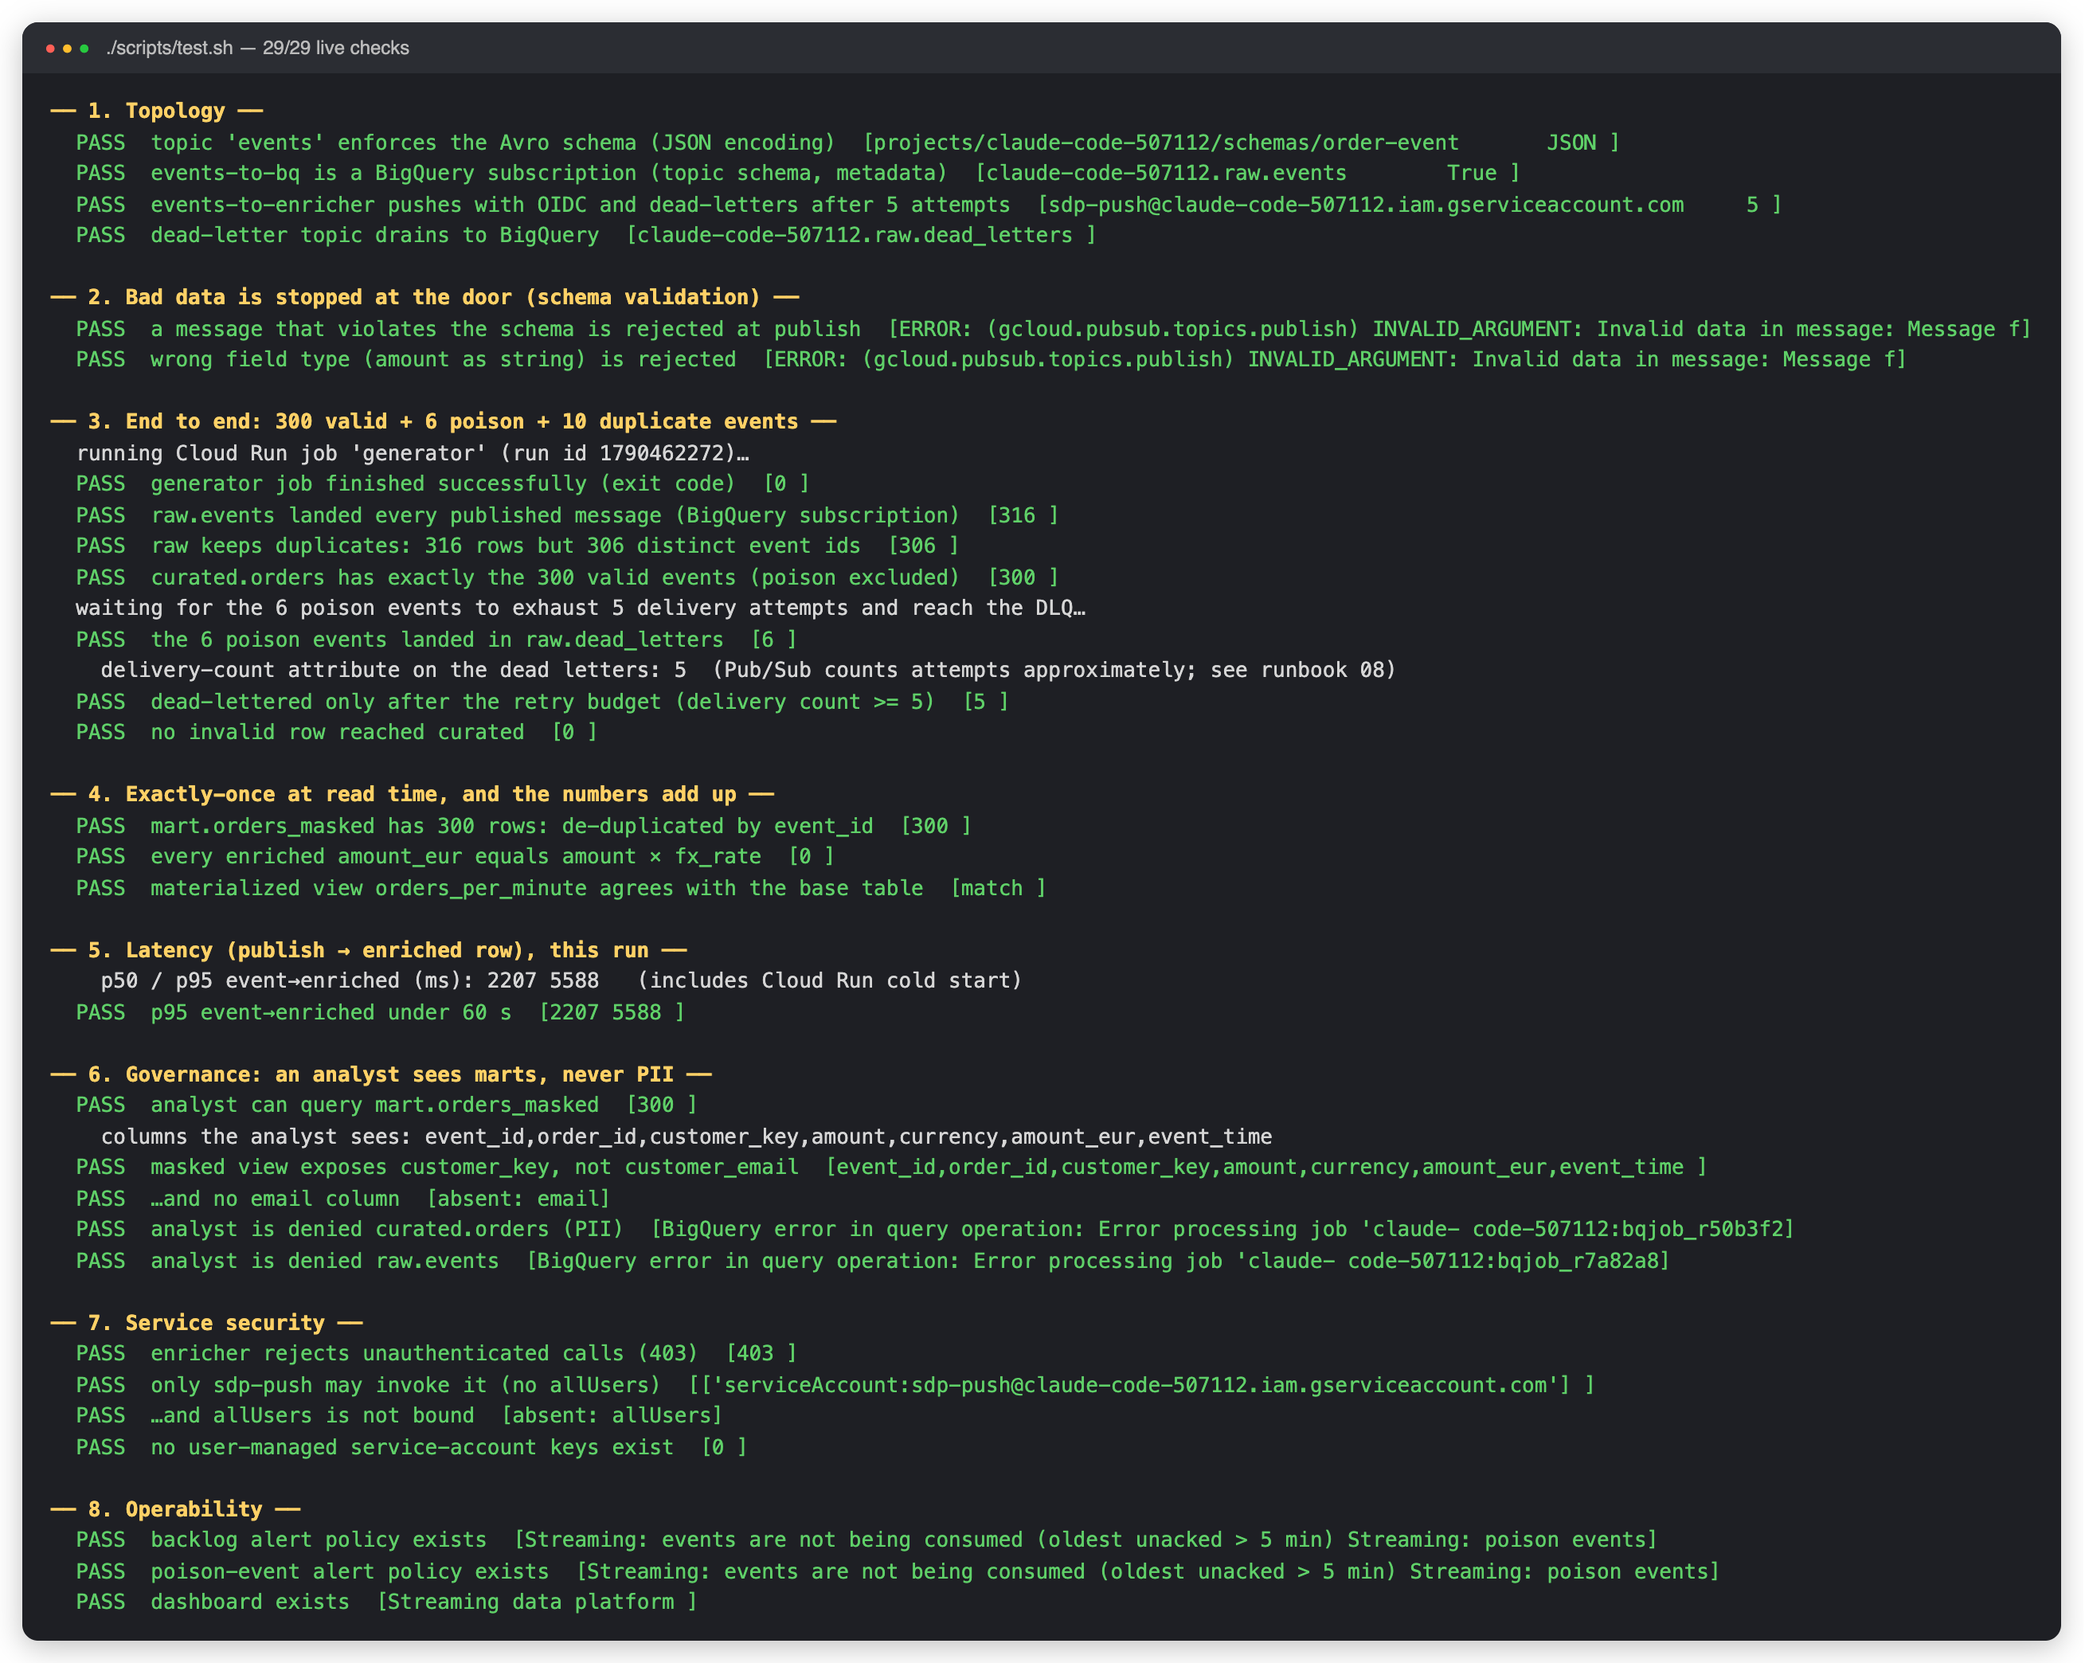
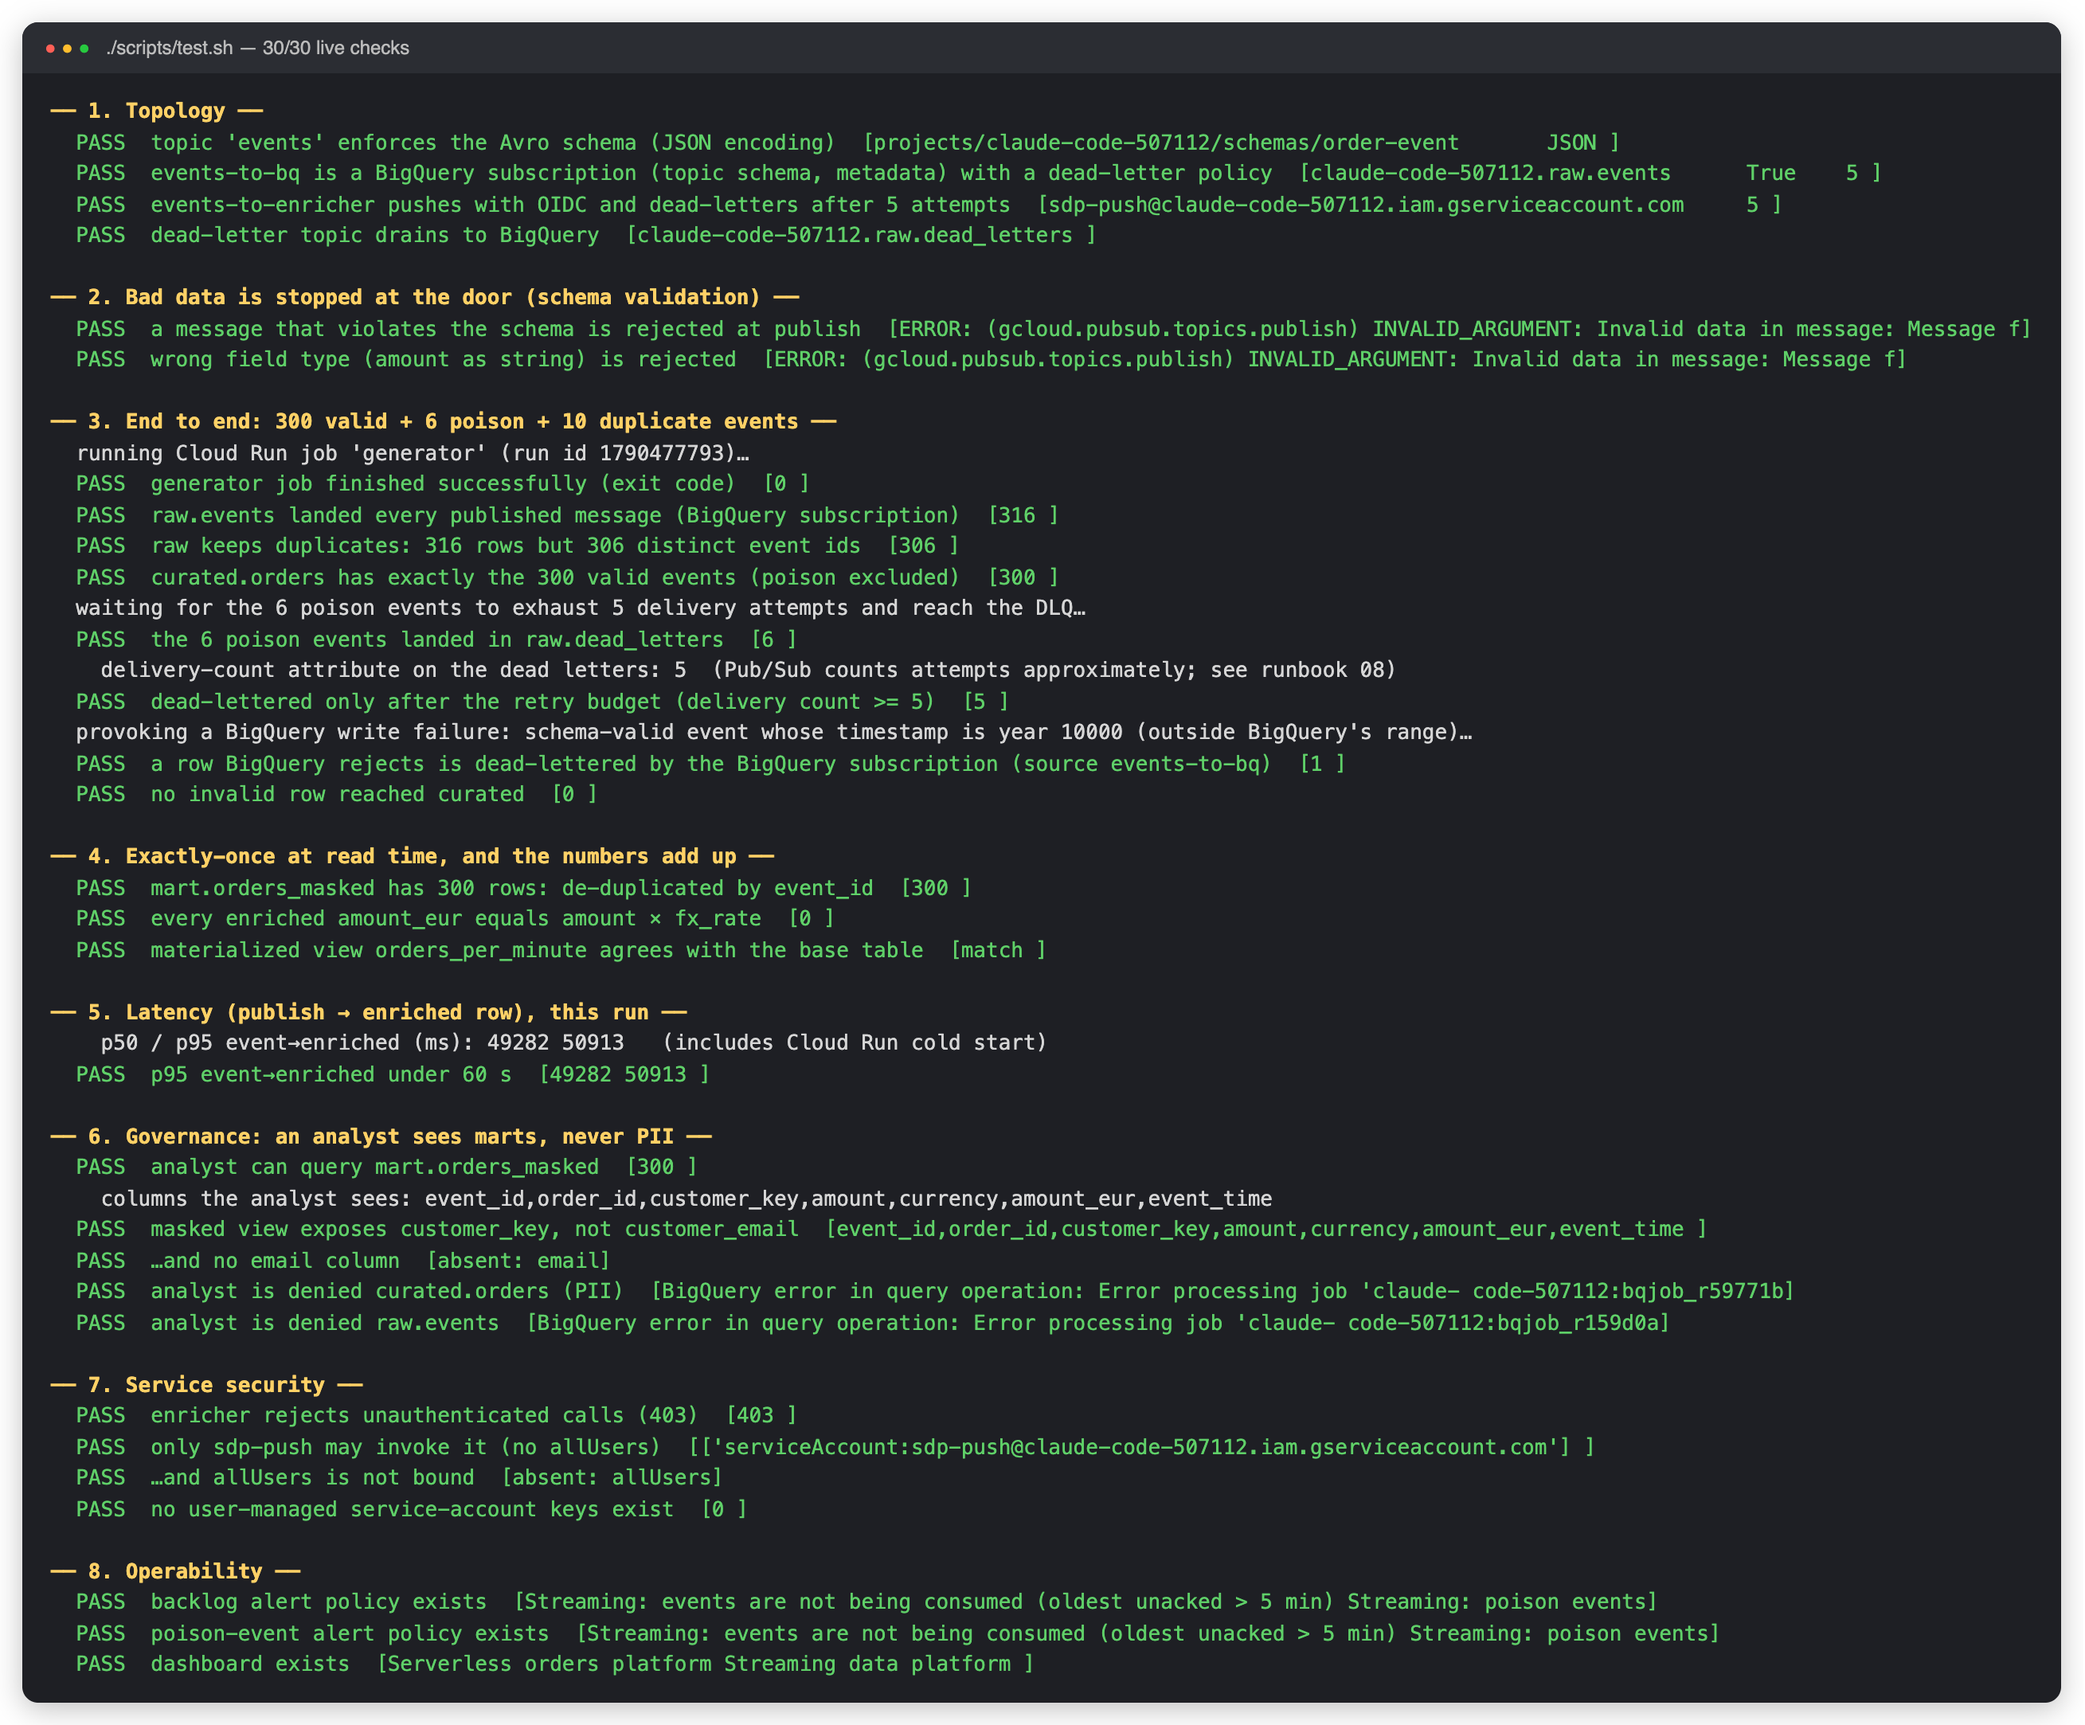
audit: dead-letter BigQuery write failures (proven live), scope operator actAs, shellcheck-clean, fix CI scan action tag
30/30 live checks on a fresh build; evidence regenerated.

diff --git a/docs/diagrams/architecture.py b/docs/diagrams/architecture.py
@@ -76,7 +76,7 @@ d.legend(34, 1210, "Numbered flows", [
     ("3", "A push subscription calls the enricher with an OIDC token; a 2xx acknowledges the message"),
     ("4", "The enricher validates, converts to EUR, and inserts into curated.orders (event_id as the insert id); a materialized view aggregates per minute"),
     ("5", "Invalid events return 422; Pub/Sub retries with backoff and after 5 attempts forwards the message to events-dlq"),
-    ("6", "A second BigQuery subscription lands dead letters in raw.dead_letters, and the poison alert fires"),
+    ("6", "A second BigQuery subscription lands dead letters in raw.dead_letters (rows BigQuery itself rejects are forwarded to the same DLQ), and the poison alert fires"),
     ("7", "Analysts query mart views only; the views are authorized on curated, so no direct table access is ever granted"),
 ], w=1710)
 d.key(34, 1430)

diff --git a/docs/test-results.md b/docs/test-results.md
@@ -1,12 +1,12 @@
 # Live test results
 
-Captured by `scripts/test.sh` on 2026-09-26T22:37:52Z against project `claude-code-507112` (europe-west1).
+Captured by `scripts/test.sh` on 2026-09-27T02:56:33Z against project `claude-code-507112` (europe-west1).
 
 ```
 
 ── 1. Topology ──
   PASS  topic 'events' enforces the Avro schema (JSON encoding)  [projects/claude-code-507112/schemas/order-event	JSON ]
-  PASS  events-to-bq is a BigQuery subscription (topic schema, metadata)  [claude-code-507112.raw.events	True ]
+  PASS  events-to-bq is a BigQuery subscription (topic schema, metadata) with a dead-letter policy  [claude-code-507112.raw.events	True	5 ]
   PASS  events-to-enricher pushes with OIDC and dead-letters after 5 attempts  [sdp-push@claude-code-507112.iam.gserviceaccount.com	5 ]
   PASS  dead-letter topic drains to BigQuery  [claude-code-507112.raw.dead_letters ]
 
@@ -15,7 +15,7 @@ Captured by `scripts/test.sh` on 2026-09-26T22:37:52Z against project `claude-co
   PASS  wrong field type (amount as string) is rejected  [ERROR: (gcloud.pubsub.topics.publish) INVALID_ARGUMENT: Invalid data in message: Message f]
 
 ── 3. End to end: 300 valid + 6 poison + 10 duplicate events ──
-  running Cloud Run job 'generator' (run id 1790462272)…
+  running Cloud Run job 'generator' (run id 1790477793)…
   PASS  generator job finished successfully (exit code)  [0 ]
   PASS  raw.events landed every published message (BigQuery subscription)  [316 ]
   PASS  raw keeps duplicates: 316 rows but 306 distinct event ids  [306 ]
@@ -24,6 +24,8 @@ Captured by `scripts/test.sh` on 2026-09-26T22:37:52Z against project `claude-co
   PASS  the 6 poison events landed in raw.dead_letters  [6 ]
     delivery-count attribute on the dead letters: 5  (Pub/Sub counts attempts approximately; see runbook 08)
   PASS  dead-lettered only after the retry budget (delivery count >= 5)  [5 ]
+  provoking a BigQuery write failure: schema-valid event whose timestamp is year 10000 (outside BigQuery's range)…
+  PASS  a row BigQuery rejects is dead-lettered by the BigQuery subscription (source events-to-bq)  [1 ]
   PASS  no invalid row reached curated  [0 ]
 
 ── 4. Exactly-once at read time, and the numbers add up ──
@@ -32,16 +34,16 @@ Captured by `scripts/test.sh` on 2026-09-26T22:37:52Z against project `claude-co
   PASS  materialized view orders_per_minute agrees with the base table  [match ]
 
 ── 5. Latency (publish → enriched row), this run ──
-    p50 / p95 event→enriched (ms): 2207 5588   (includes Cloud Run cold start)
-  PASS  p95 event→enriched under 60 s  [2207 5588 ]
+    p50 / p95 event→enriched (ms): 49282 50913   (includes Cloud Run cold start)
+  PASS  p95 event→enriched under 60 s  [49282 50913 ]
 
 ── 6. Governance: an analyst sees marts, never PII ──
   PASS  analyst can query mart.orders_masked  [300 ]
     columns the analyst sees: event_id,order_id,customer_key,amount,currency,amount_eur,event_time
   PASS  masked view exposes customer_key, not customer_email  [event_id,order_id,customer_key,amount,currency,amount_eur,event_time ]
   PASS  …and no email column  [absent: email]
-  PASS  analyst is denied curated.orders (PII)  [BigQuery error in query operation: Error processing job 'claude- code-507112:bqjob_r50b3f2]
-  PASS  analyst is denied raw.events  [BigQuery error in query operation: Error processing job 'claude- code-507112:bqjob_r7a82a8]
+  PASS  analyst is denied curated.orders (PII)  [BigQuery error in query operation: Error processing job 'claude- code-507112:bqjob_r59771b]
+  PASS  analyst is denied raw.events  [BigQuery error in query operation: Error processing job 'claude- code-507112:bqjob_r159d0a]
 
 ── 7. Service security ──
   PASS  enricher rejects unauthenticated calls (403)  [403 ]
@@ -52,7 +54,7 @@ Captured by `scripts/test.sh` on 2026-09-26T22:37:52Z against project `claude-co
 ── 8. Operability ──
   PASS  backlog alert policy exists  [Streaming: events are not being consumed (oldest unacked > 5 min) Streaming: poison events]
   PASS  poison-event alert policy exists  [Streaming: events are not being consumed (oldest unacked > 5 min) Streaming: poison events]
-  PASS  dashboard exists  [Streaming data platform ]
+  PASS  dashboard exists  [Serverless orders platform Streaming data platform ]
 ```
 
-**Result: 29 passed, 0 failed.**
+**Result: 30 passed, 0 failed.**

diff --git a/README.md b/README.md
@@ -2,7 +2,7 @@
 
 An event pipeline you can trust: **Pub/Sub with an enforced Avro schema** → a **BigQuery subscription** for a raw, replayable landing zone → a **Cloud Run enricher** with retries and **dead-lettering** → **curated** tables → **PII-masked authorized views** for analysts. Provisioned and destroyed by **one script each**, and every claim is asserted against the running system.
 
-> **Status: deployed and verified live** (europe-west1 / BigQuery EU, 2026-09-26). `./scripts/up.sh` builds it in two Terraform phases and [`scripts/test.sh`](scripts/test.sh) passes **29 of 29** ([results](docs/test-results.md)). The dead-letter replay in [runbook 04](docs/runbooks/04-dead-letters.md) was executed for real. The stack was then removed with `./scripts/down.sh`.
+> **Status: deployed and verified live** (europe-west1 / BigQuery EU, 2026-09-26). `./scripts/up.sh` builds it in two Terraform phases and [`scripts/test.sh`](scripts/test.sh) passes **30 of 30** ([results](docs/test-results.md)). The dead-letter replay in [runbook 04](docs/runbooks/04-dead-letters.md) was executed for real. The stack was then removed with `./scripts/down.sh`.
 
 ```bash
 gcloud config set project <your-project>      # billing linked; the rest is auto-detected
@@ -15,12 +15,12 @@ gcloud config set project <your-project>      # billing linked; the rest is auto
 | | |
 |---|---|
 | ![test suite](docs/img/live-test-suite.png) | ![counts](docs/img/live-pipeline-counts.png) |
-| **`scripts/test.sh`** — 29 checks: topology, schema rejection, end-to-end run, exactly-once reads, governance, security | **316 published → 316 raw (306 distinct) → 300 curated → 300 in the mart, and 6 poison events in the DLQ** |
+| **`scripts/test.sh`** — 30 checks: topology, schema rejection, end-to-end run, exactly-once reads, governance, security | **316 published → 316 raw (306 distinct) → 300 curated → 300 in the mart, and 6 poison events in the DLQ** |
 
 | | |
 |---|---|
 | ![dead letters](docs/img/live-dead-letters.png) | ![replay](docs/img/live-replay.png) |
-| **Dead letters** — the 6 negative-amount events, forwarded by `events-to-enricher` after the retry budget | **Replay** — fix a dead letter, republish, and it appears enriched in the mart 25 s later |
+| **Dead letters** — the 6 negative-amount events (from `events-to-enricher`) plus a year-10000 timestamp that BigQuery rejected (from `events-to-bq`) | **Replay** — fix a dead letter, republish, and it appears enriched in the mart 25 s later |
 
 | | |
 |---|---|
@@ -35,7 +35,7 @@ The Cloud Console views are not included: the console needs an interactive Googl
 |---|---|---|
 | **Bad data stopped at the door** | Avro schema on the topic; wrong shape/type → `INVALID_ARGUMENT` at publish | test §2 |
 | **Nothing lost** | BigQuery subscription lands every accepted message untouched | test §3: 316 rows for 316 published |
-| **Poison doesn't block or vanish** | 422 → retries → dead-letter topic → `raw.dead_letters` + alert; replayable | test §3, runbook 04 |
+| **Poison doesn't block or vanish** | 422 → retries → dead-letter topic → `raw.dead_letters` + alert; replayable. BigQuery write failures dead-letter too | test §3 (both sources), runbook 04 |
 | **Exactly-once results from at-least-once delivery** | duplicates kept in raw, removed at read by `event_id` | 316 → 306 → 300 |
 | **PII never reaches analysts** | authorized views, hashed `customer_key`; no table grants | test §6 (impersonated analyst) |
 | **Least privilege** | one SA per job; only the push identity can invoke the enricher; no SA keys | test §7 |

diff --git a/docs/adr/0001-bigquery-subscription-for-landing.md b/docs/adr/0001-bigquery-subscription-for-landing.md
@@ -4,4 +4,4 @@
 
 Every accepted message must be stored untouched for audit and replay. Options: a Dataflow template, a Cloud Run consumer, or a **Pub/Sub BigQuery subscription**. The subscription is a managed feature: it writes each message to a table using the *topic's schema*, adds publish metadata (`message_id`, `publish_time`, `attributes`), scales with the topic and costs nothing beyond Pub/Sub throughput. No worker to size, patch or monitor.
 
-**Trade-offs.** It is at-least-once, so `raw.events` can contain duplicates (the tests prove this: 316 rows, 306 distinct). It cannot transform or reject — hence the *second* path (push → enricher) for validation/enrichment. Messages that BigQuery cannot accept are dead-lettered by Pub/Sub; the subscription's IAM (dataEditor + metadataViewer on `raw` only) keeps its blast radius to one dataset.
+**Trade-offs.** It is at-least-once, so `raw.events` can contain duplicates (the tests prove this: 316 rows, 306 distinct). It cannot transform or reject — hence the *second* path (push → enricher) for validation/enrichment. Messages that BigQuery cannot accept are retried and then dead-lettered by Pub/Sub (`max_delivery_attempts = 5`, same DLQ as the enricher; proven live by publishing a schema-valid event with a year-10000 timestamp, see [test §3](../test-results.md)); the subscription's IAM (dataEditor + metadataViewer on `raw` only) keeps its blast radius to one dataset.

diff --git a/docs/runbooks/05-incident-response.md b/docs/runbooks/05-incident-response.md
@@ -4,7 +4,7 @@
 |---|---|---|
 | **Oldest unacked > 5 min** | Dashboard *Oldest unacked age*; `gcloud pubsub subscriptions describe events-to-enricher` | Enricher failing or scaled to a limit → `gcloud run services logs read enricher --region $REGION --limit 50`; raise `max_instance_count`; check BigQuery errors |
 | **Poison events on the DLQ** | [runbook 04](04-dead-letters.md) | Producer bug or bad data |
-| Nothing arrives in `raw.events` | `gcloud pubsub topics list-subscriptions events`; subscription state | BigQuery subscription paused because the Pub/Sub service agent lost `dataEditor` on `raw`, or the table schema drifted from the topic schema |
+| Nothing arrives in `raw.events` | `gcloud pubsub topics list-subscriptions events`; subscription state | *(expected causes, not induced live)* the BigQuery subscription cannot write because the Pub/Sub service agent lost `dataEditor` on `raw`, or the table schema drifted from the topic schema |
 | Rows in `raw`, none in `curated` | enricher logs | 403 from Cloud Run (push identity/audience wrong), or `sdp-enricher` lost `dataEditor` on `curated` |
 | Publishers get `INVALID_ARGUMENT` | schema revision vs. payload | Producer deployed ahead of schema change → [runbook 06](06-schema-evolution.md) |
 
